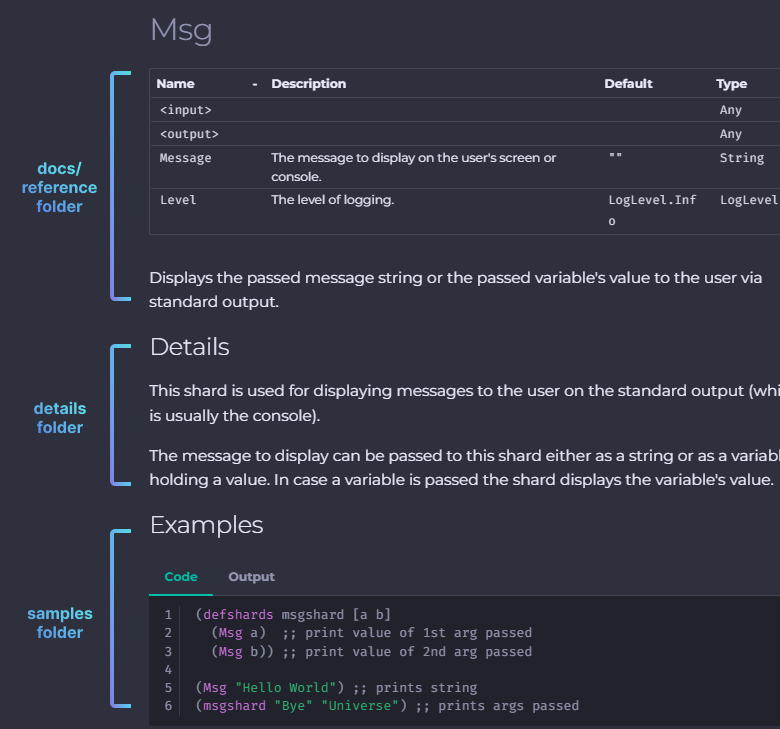
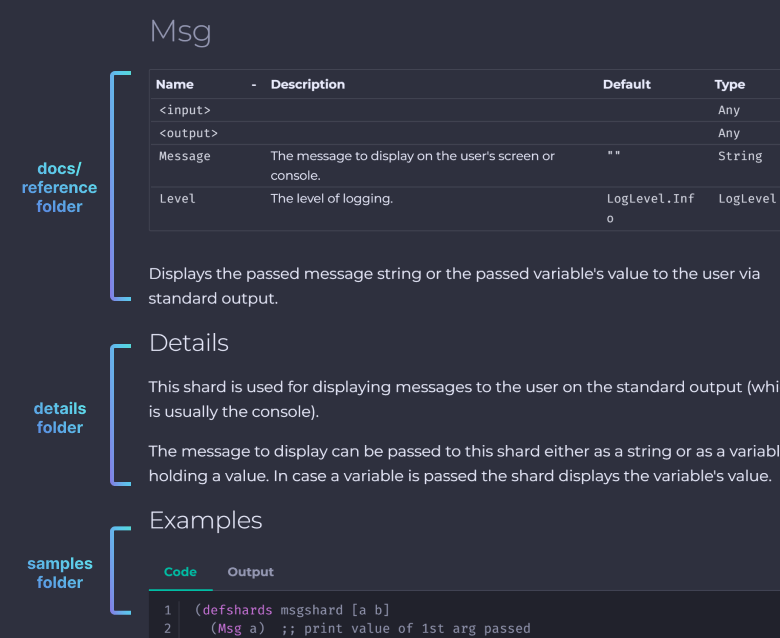
Sharpened existing images
- Added instructions for the installation of MkDocs plugins
- Reworked the naming of folders
- Reworked the segment on Pages and Levels
- Reworked the segment on generating docs for the Shards API
- Added a segment on generating log files for the code samples

diff --git a/docs/docs/contribute/docs/write-documentation.md b/docs/docs/contribute/docs/write-documentation.md
@@ -60,11 +60,15 @@ For the other documentation pages:
 
 ## Pages and Levels
 
-The root directory for our site is located at `/docs/docs`, with `docs/docs/index.md` being the file for our homepage. Subsequent directories are placed within folders.
+The root directory for our site is located at `/docs/docs`, with `index.md` being the file for our homepage. Subsequent directories are placed within folders.
+
+![A level in the doc's hierarchy.](assets/docs-hierarchy.png)
 
 Each level contains:
 
 - An `index.md` file as the landing page
+
+- An (optional) `assets` folder to hold media used in that level
 
 - A `.pages` file to organize the order of our pages
 
@@ -75,20 +79,53 @@ Each level contains:
 
         ![Using ... to automatically list pages.](assets/editing-ref-pages-dots.png)
 
-- An (optional) `asset` folder to hold media used in that level
-
 ## Generating Documentation for the Shards API
 
-You might have noticed that the `/docs/docs/reference/shards` folder is conspicuously empty. This is to allow for the faster previewing of your static site without having to load all the pages for the Shards API.
+You might have observed that the `/docs/docs/reference/shards` folder is conspicuously empty. This is to allow for the faster previewing of your static site without having to load all the pages for the Shards API.
 
-To generate the documentation for the Shards API, run the `generate.edn` file by launching your MinGW terminal and inputting the following command:
+To generate the documentation for the Shards API:
 
-    ./build/Debug/shards ./docs/generate.edn
+1. Launch your MinGW terminal
+
+2. Navigate to where your Shards repository is located using the command `cd $(cygpath -u '(X)')`, where (X) is the directory of your folder.
+
+        cd $(cygpath -u '(X)')
+
+    If your repository is located at `C:\Fragcolor\Shards`, the command used in the MinGW terminal would be `cd $(cygpath -u 'C:\Fragcolor\Shards')`.
+
+ 3. Input the following command:
+
+        ./build/Debug/shards ./docs/generate.edn
 
 !!! note
     The **Debug** version of Shards must be used for the generating of the Shards API pages.
 
 Once done, you will notice that the directory is now filled with folders and Markdown files of various shards.
+
+## Generating Log Files for Examples
+
+You might have noticed that the "Output" segment for your code examples is empty. This is due to how a `.log` file is required for each example to show as its output.
+
+To generate the `.log` files for your code examples:
+
+1. Launch your MinGW terminal
+
+2. Navigate to where your Shards repository is located using the command `cd $(cygpath -u '(X)')`, where (X) is the directory of your folder.
+
+        cd $(cygpath -u '(X)')
+
+    If your repository is located at `C:\Fragcolor\Shards`, the command used in the MinGW terminal would be `cd $(cygpath -u 'C:\Fragcolor\Shards')`.
+
+ 3. Input the following command:
+
+        ./run-samples.sh --release
+
+!!! warning "Segmentation fault"
+    If the error for "Segmentation fault" appears, run the following command before trying Step 3 again.
+
+        export GFX_BACKEND=D3D12
+
+Once the script is done, you will notice new `.log` files within your "Samples" folder. These will be shown in your documentation as the "Output" of your code examples.
 
 ## Updating the Shards API Docs
 

diff --git a/docs/docs/contribute/docs/start-documenting.md b/docs/docs/contribute/docs/start-documenting.md
@@ -65,12 +65,24 @@ Once done, you can check if your installation is successful with the command:
     ![Check MkDocs installation.](assets/mkdocs-installation-results.png)
 
 
-Next, install a theme for MkDocs with the command:
+Finally, install the following by running the given commands:
 
-=== "Command"
+1. Material for MkDoc - A theme for MkDocs
 
     ```
     pip install mkdocs-material
+    ```
+
+2. Awesome Pages Plugin - Adds navigation customization
+
+    ```
+    pip install mkdocs-awesome-pages-plugin
+    ```
+
+3. mkdocs-macros - Allows for custom macros and variables
+
+    ```
+    pip install mkdocs-macros-plugin
     ```
 
 You are now ready to start writing documentation! We will learn how Fragcolor's documentation is written in the next chapter.
@@ -87,6 +99,16 @@ pip install mkdocs
 3. Install Material for MkDocs.
 ```
 pip install mkdocs-material
+```
+
+4. Install the Awesome Pages Plugin.
+```
+pip install mkdocs-awesome-pages-plugin
+```
+
+3. Install mkdocs-macros.
+```
+pip install mkdocs-macros-plugin
 ```
 
 --8<-- "includes/license.md"
